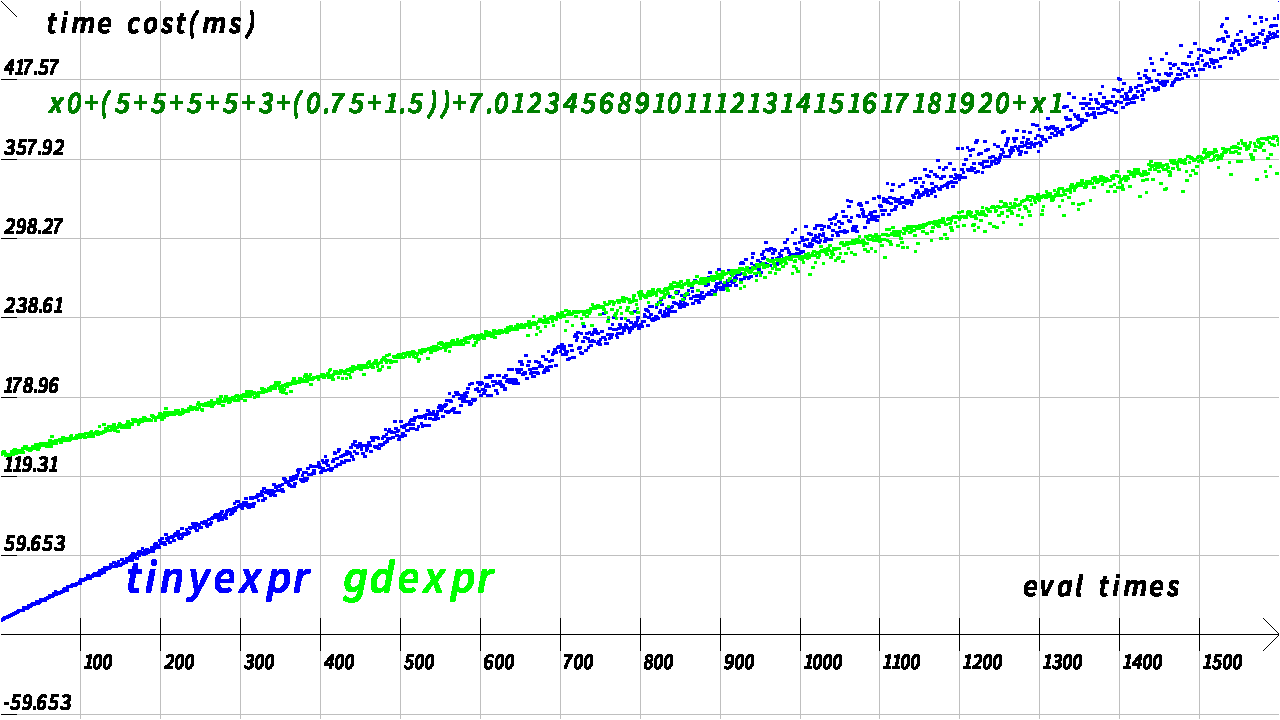
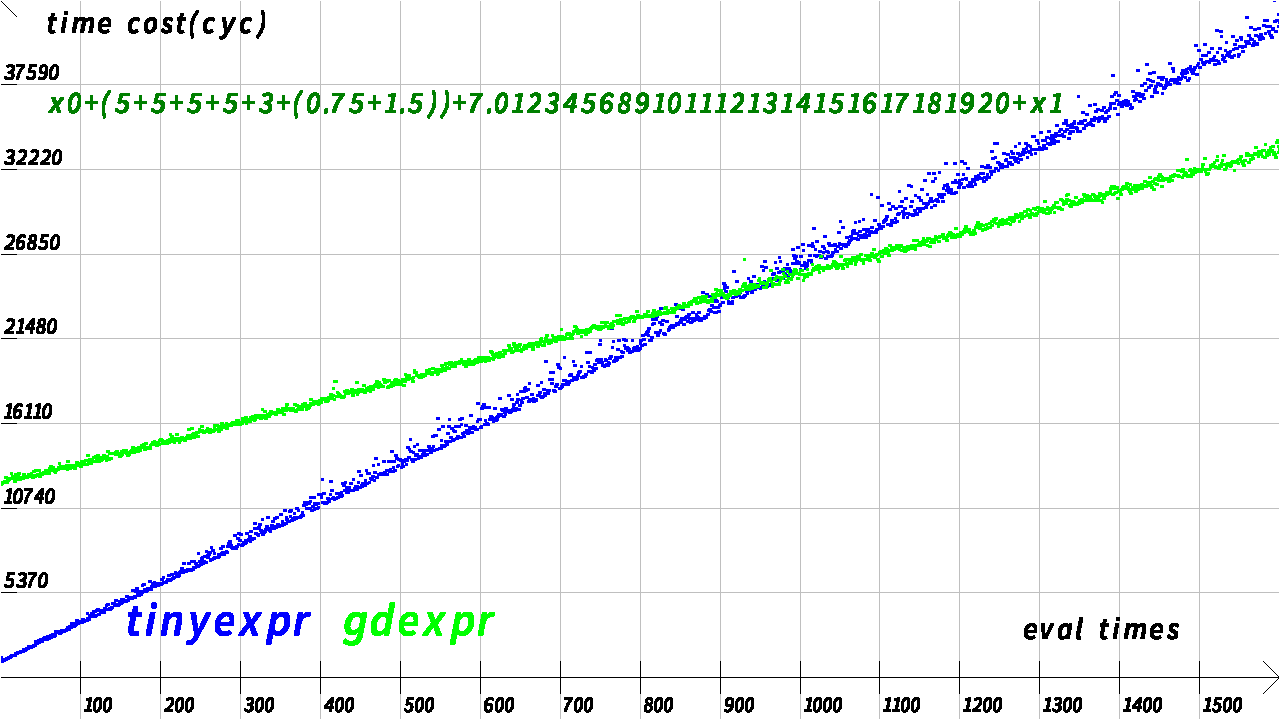
use rdtsc for compare-curve.c

diff --git a/fun/compare-curve.c b/fun/compare-curve.c
@@ -5,6 +5,9 @@
 #include <assert.h>
 #include <time.h>
 #include <assert.h>
+#include <float.h>
+#include <math.h>
+#include <x86intrin.h>
 #include "graph.h"
 #ifdef __unix__
 #define REAL_UNIX
@@ -34,12 +37,15 @@ struct expr_memtool mtl[1];
 
 const char *expression="x0+(5+5+5+5+3+(0.75+1.5))+7.0123456891011121314151617181920+x1";
 //tinyexpr does not allow bitwise and/or.
-
+/*
 double dtime(void){
-	struct timespec ts;
-	clock_gettime(CLOCK_THREAD_CPUTIME_ID,&ts);
-	return (double)ts.tv_sec+ts.tv_nsec/1000000000.0;
+	return (double)__rdtsc();
+//	struct timespec ts;
+//	clock_gettime(CLOCK_THREAD_CPUTIME_ID,&ts);
+//	return (double)ts.tv_sec+ts.tv_nsec/1000000000.0;
 }
+*/
+#define dtime __rdtsc
 double tx0=4,tx1=6;
 volatile double x0=4,x1=6;
 te_variable tvars[]={{"x0",&tx0,TE_VARIABLE,NULL},{"x1",&tx1,TE_VARIABLE,NULL}};
@@ -85,7 +91,7 @@ void draw_curve(double max_time){
 	volatile double current;
 	int32_t l=0;
 	int32_t y0;
-	assert(!init_graph(gp,1280,720,32,-1,MAX_TIMES+0.5,-64,max_time+0.5));
+	assert(!init_graph(gp,1280,720,32,-1,MAX_TIMES+0.5,-max_time/16,max_time+0.5));
 	graph_fill(gp,0x7fffffff);
 	gp->connect=0;
 	graph_draw_grid(gp,0xffbfbfbf,0,MAX_TIMES/16,max_time/8);
@@ -99,7 +105,7 @@ void draw_curve(double max_time){
 //	graph_draw(gp,0xffff0000,FBOLD,evalx,evaly,NULL,cost.expn,0,MAX_TIMES,0.125,&current);
 //	l+=graph_draw_text_pixel(gp,0xffff0000,0,"gdexpr(NO)",4,48,l,y0)+32;
 	graph_draw_text_pixel(gp,0xff000000,0,"eval times",4,32,1024,y0);
-	graph_draw_text_pixel(gp,0xff000000,0,"time cost(ms)",4,32,48,680);
+	graph_draw_text_pixel(gp,0xff000000,0,"time cost(cyc)",4,32,48,680);
 	graph_draw_text_pixel(gp,0xff007f00,0,expression,4,32,48,600);
 //	graph_draw_text_pixel(gp,0xff2020ff,0,"Drawer",4,320,288,64);
 //	graph_draw_text_pixel(gp,0xff007f00,0,"Expression-to-image-and-audio converter",4,72,12,16);
@@ -111,11 +117,19 @@ void draw_curve(double max_time){
 	close(tofd);
 	graph_free(gp);
 }
-#define rct for(ct=0.0,st=dtime();ct==0.0;ct=dtime())
+#define AMPL 8192
+#define rct for(ct=0,st=dtime();ct==0;ct=dtime())
+static int double_compar(const double *restrict x,const double *restrict y){
+	return *x==*y?0:(*x<*y?-1:1);
+}
+void double_sortq(double *restrict v,size_t n){
+	qsort((void *)v,n,sizeof(double),(int (*)(const void *,const void *))double_compar);
+}
+double dbuf[AMPL];
 int main(int argc,char **argv){
-	unsigned int count=8192;
-	double ct,st,tt,et/*,ent*/;
-	double max_time=0.0;
+	unsigned int count=AMPL;
+	uint64_t ct,st;
+	double max_time=0.0,tmp,tt,et;
 	if(argc>1)
 		expression=argv[1];
 	assert(!expr_setup_heapmtl4(mtl,internal_heap,sizeof(internal_heap),EXPR_ADEFAULT));
@@ -123,8 +137,12 @@ int main(int argc,char **argv){
 	assert(expr_symset_add(es,"x1",EXPR_VARIABLE,0,&x1));
 
 #define test_ief(func,tdest) \
-	rct for(unsigned int i=0;i<count;++i)(func);\
-	tdest=(ct-st)*1000.0
+	tdest=0.0;\
+	for(unsigned int i=0;i<count;++i){\
+		rct(func);\
+		tdest+=(double)(ct-st);\
+	}\
+	tdest/=count;
 #define test_once(times)\
 		test_ief(eval_t(NULL,times),tt);\
 		test_ief(eval(NULL,times,EXPR_ISCANCACHE),et)
@@ -133,16 +151,16 @@ int main(int argc,char **argv){
 	test_once(1);
 	for(unsigned int times=0;times<=MAX_TIMES;++times){
 		test_once(times);
-		cost.tiny[times]=tt;
-		cost.expr[times]=et;
-//		cost.expn[times]=ent;
+		cost.tiny[times]=(double)tt;
+		cost.expr[times]=(double)et;
+//		cost.expn[times]=(double)ent;
 //		printf("times=%-6u,t=%-8.2lfms %-2s e=%-8.2lfms %-2s en=%-8.2lfms\n",times,tt,tt<et?"<":">",et,et<ent?"<":">",ent);
-		printf("times=%-6u,t=%-8.2lfms %-2s e=%-8.2lfms\n",times,tt,tt<et?"<":">",et);
+		printf("times=%-6u,t=%-8.2lfcyc %-2s e=%-8.2lfcyc\n",times,tt,tt<et?"<":">",et);
 	}
 	for(unsigned int i=0;i<=(MAX_TIMES+1)*2;++i){
-		ct=((double *)&cost)[i];
-		if(ct>max_time)
-			max_time=ct;
+		tmp=((double *)&cost)[i];
+		if(tmp>max_time)
+			max_time=tmp;
 	}
 		printf("max_time=%.2lf\n",max_time);
 	expr_symset_free(es);

diff --git a/README.md b/README.md
@@ -28,7 +28,7 @@ Not suitable for:
 
 ![curve](curve.png)
 
-*Test on x86 powersave mode(reduce the CPU heating which may affect thr result).*
+*Test on x86 powersave mode(reduce the CPU heating which may affect the result).*
 
 The library can also be used like a **standalone library**, without building the libgraph and frontend. By the command:
 ```
